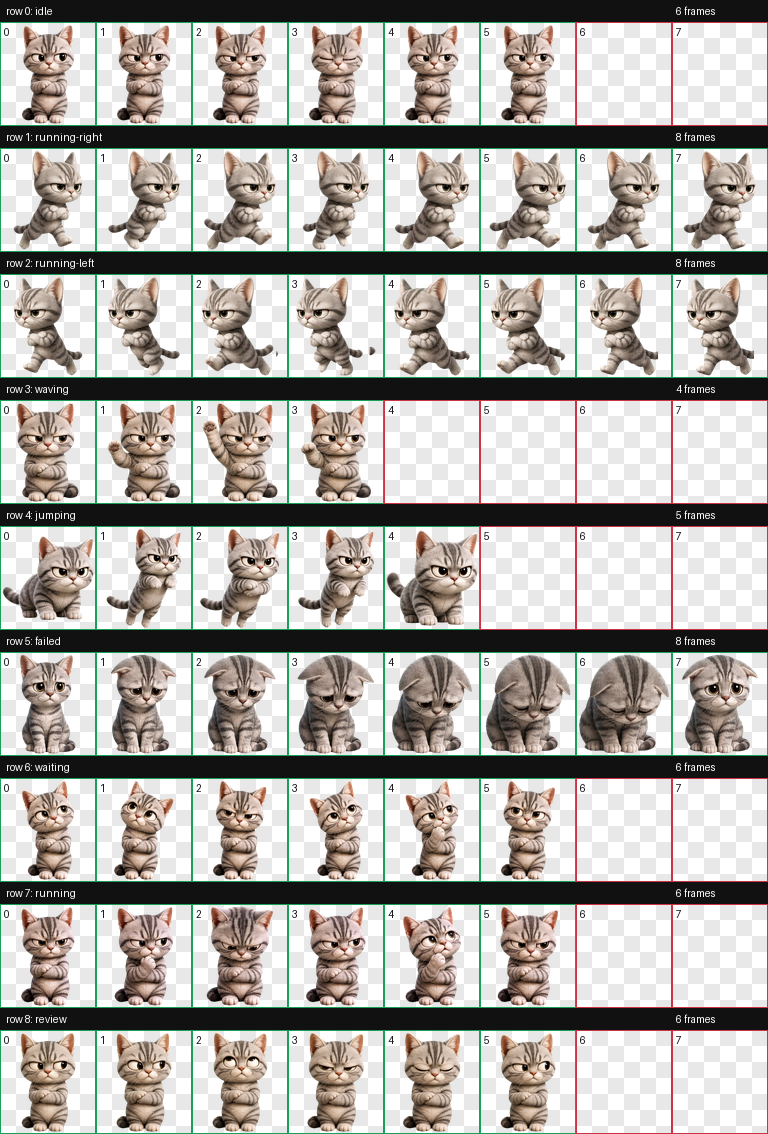
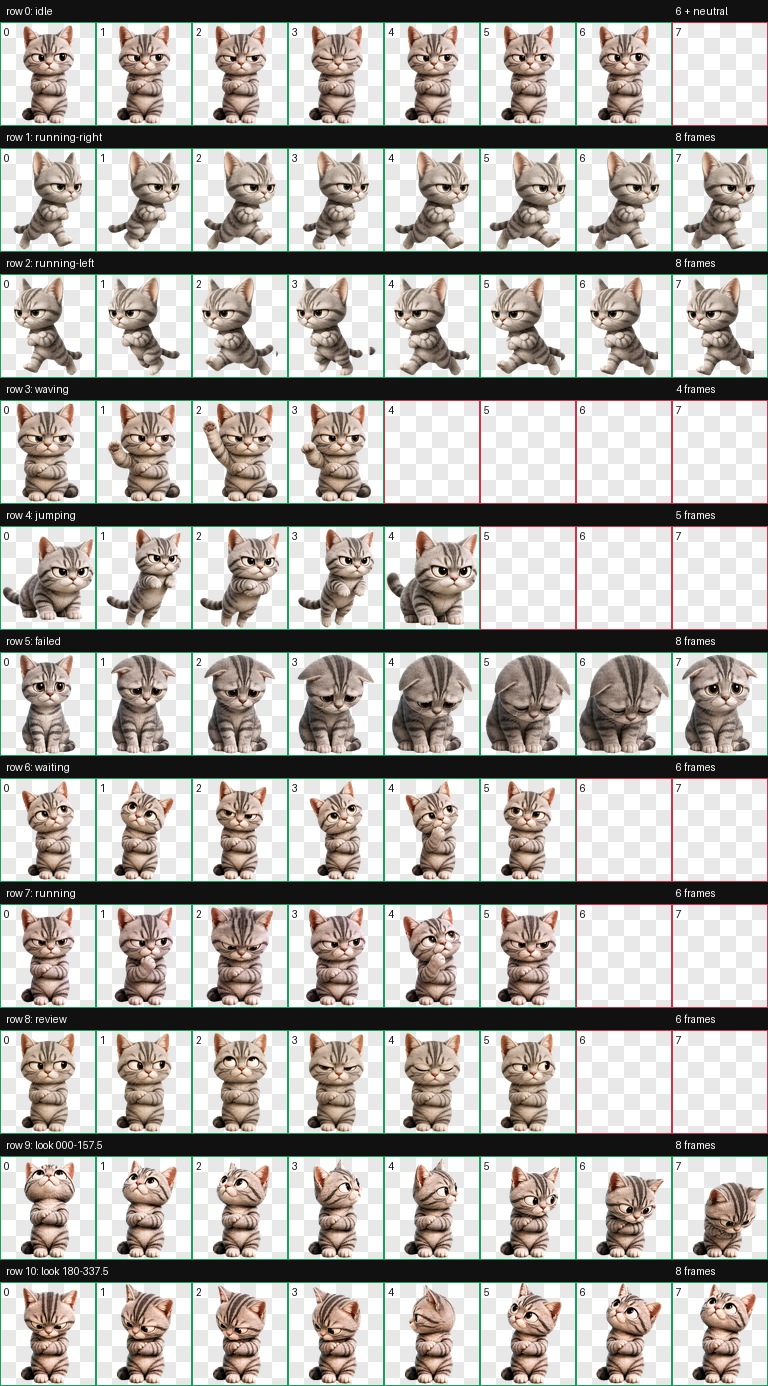
Add Larry's full directional atlas

diff --git a/scripts/validate-package.py b/scripts/validate-package.py
@@ -10,6 +10,7 @@ ROOT = pathlib.Path(__file__).resolve().parents[1]
 PET_JSON = ROOT / "pet" / "pet.json"
 SPRITESHEET = ROOT / "pet" / "spritesheet.webp"
 CONTACT_SHEET = ROOT / "qa" / "contact-sheet.png"
+DIRECTION_SHEET = ROOT / "qa" / "look-directions.png"
 PREVIEW_DIR = ROOT / "qa" / "previews"
 
 EXPECTED_PREVIEWS = {
@@ -34,6 +35,8 @@ STATE_ROWS = (
     "waiting",
     "running",
     "review",
+    "look-000-to-157.5",
+    "look-180-to-337.5",
 )
 CELL_HEIGHT = 208
 FRINGE_PIXEL_LIMIT = 250
@@ -110,19 +113,23 @@ def main():
     required = {
         "id": "larry-david",
         "displayName": "Larry David",
+        "spriteVersionNumber": 2,
         "spritesheetPath": "spritesheet.webp",
     }
     for key, value in required.items():
         if manifest.get(key) != value:
             fail(f"pet.json has unexpected {key!r}: {manifest.get(key)!r}")
 
-    if read_webp_size(SPRITESHEET) != (1536, 1872):
-        fail("spritesheet.webp should be 1536x1872")
+    if read_webp_size(SPRITESHEET) != (1536, 2288):
+        fail("spritesheet.webp should be 1536x2288")
 
     validate_colored_fringe(SPRITESHEET)
 
-    if read_png_size(CONTACT_SHEET) != (768, 1134):
-        fail("contact-sheet.png should be 768x1134")
+    if read_png_size(CONTACT_SHEET) != (768, 1386):
+        fail("contact-sheet.png should be 768x1386")
+
+    if read_png_size(DIRECTION_SHEET) != (1536, 1170):
+        fail("look-directions.png should be 1536x1170")
 
     previews = {path.name for path in PREVIEW_DIR.glob("*.gif")}
     if previews != EXPECTED_PREVIEWS:

diff --git a/README.md b/README.md
@@ -2,7 +2,7 @@
 
 A tiny animated desktop pet package based on Larry David, my deeply unimpressed silver tabby.
 
-This repo contains the finished spritesheet, animation previews, contact sheet, and a small validation script for installing Larry into a local desktop pet app.
+This repo contains the finished spritesheet, animation previews, contact sheets, and a small validation script for installing Larry into a local desktop pet app. Larry also tracks the pointer through 16 looking directions.
 
 ~~Not _that_ Larry David.~~ The real Larry David here is the cat in my GitHub profile photo, and he is the ~~model~~ reference for this design.
 
@@ -11,6 +11,10 @@ This repo contains the finished spritesheet, animation previews, contact sheet, 
 ## Preview
 
 ![Larry David contact sheet](qa/contact-sheet.png)
+
+Directional looks:
+
+<img src="qa/look-directions.png" alt="Larry David looking in 16 directions" width="768">
 
 Individual state previews:
 
@@ -21,8 +25,9 @@ Individual state previews:
 ## Contents
 
 - `pet/pet.json` - local pet manifest
-- `pet/spritesheet.webp` - final 8x9 spritesheet
+- `pet/spritesheet.webp` - final 8x11 spritesheet
 - `qa/contact-sheet.png` - contact sheet for all animation states
+- `qa/look-directions.png` - neutral pose and all 16 looking directions
 - `qa/previews/*.gif` - per-state animation previews
 - `scripts/install-local.sh` - local installer
 - `scripts/validate-package.py` - package sanity check

diff --git a/docs/package-notes.md b/docs/package-notes.md
@@ -1,23 +1,26 @@
 # Package Notes
 
-Larry David is packaged as a compact 8x9 desktop pet spritesheet with a matching manifest and preview images.
+Larry David is packaged as a compact 8x11 desktop pet spritesheet with a matching manifest, animation previews, and 16 pointer-tracking directions.
 
 ## Source Files
 
 - Pet manifest: `pet/pet.json`
 - Spritesheet: `pet/spritesheet.webp`
 - Contact sheet: `qa/contact-sheet.png`
+- Direction sheet: `qa/look-directions.png`
 - State previews: `qa/previews/*.gif`
 
 ## Validation Summary
 
-- Final spritesheet: `1536x1872`
+- Final spritesheet: `1536x2288`
 - Cell size: `192x208`
-- Rows: `9`
-- Used frames: `57`
+- Rows: `11`
+- Used frames: `73`
+- Sprite format: `2`
 - Transparent RGB residue: `0`
 - Deterministic validation: passed
 - Frame inspection: passed
+- Cardinal direction review: passed
 
 ## Included States
 
@@ -30,6 +33,8 @@ Larry David is packaged as a compact 8x9 desktop pet spritesheet with a matching
 - `waiting`
 - `running`
 - `review`
+- `look-000-to-157.5`
+- `look-180-to-337.5`
 
 ## Repo Scope
 
